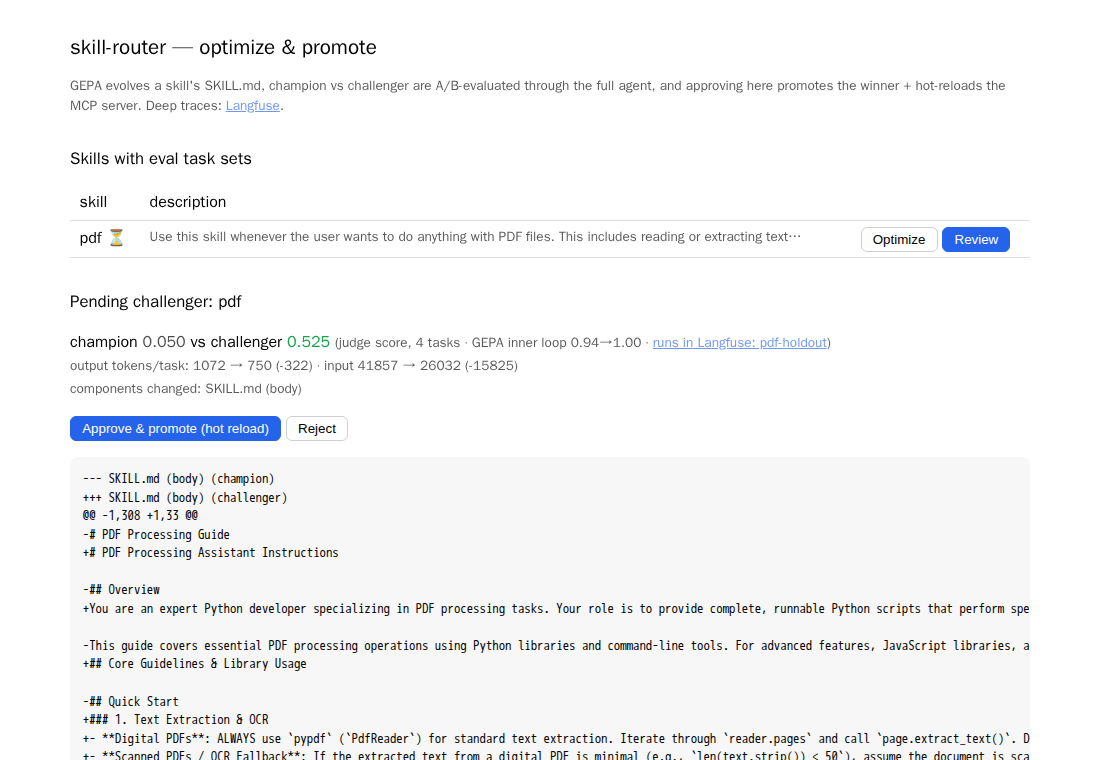
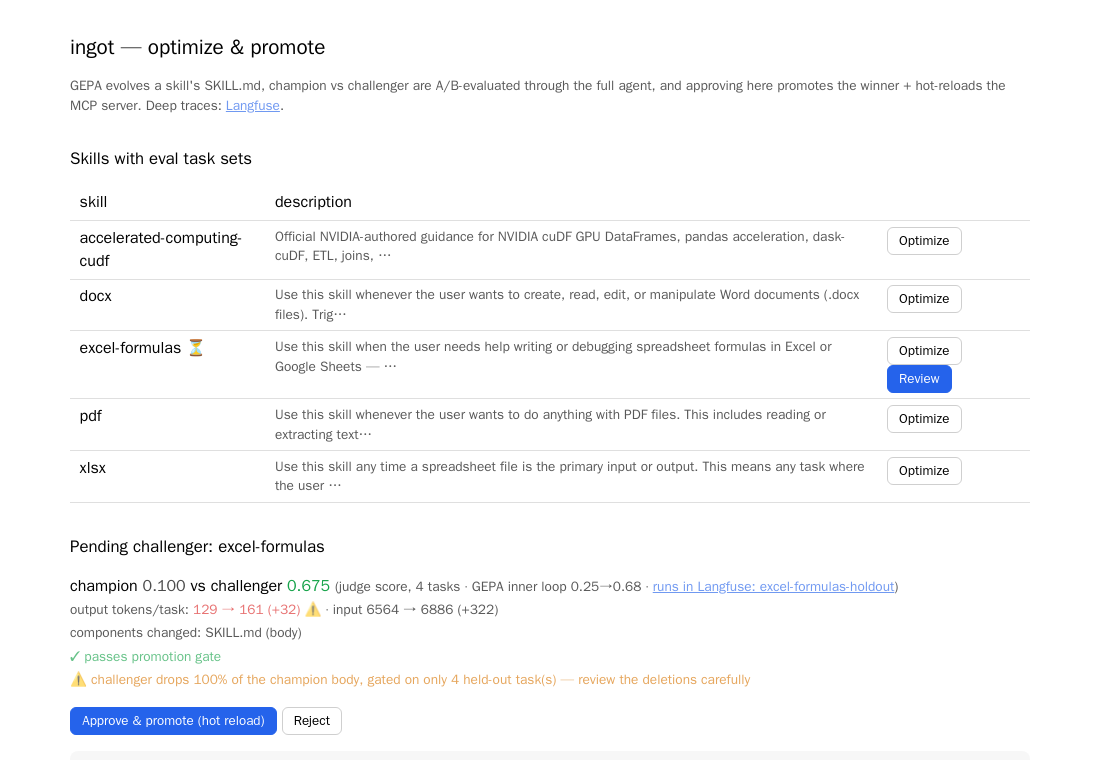
Tutorial: the excel-formulas arc — first-draft skill matured by both passes
Rewrite the walkthrough around a skill the reader writes themselves (a
four-line excel-formulas stub) and real, reproduced runs:

- traffic shows the stub under-triggering (a spreadsheet-lookup request
  routed to a rate-limiting skill) and under-delivering
- mining diagnoses it (with an honest note that reference-free judging
  of live traffic is noisy)
- body pass: auto-drafted eval set, GEPA 0.250 -> 0.675 inner loop, A/B
  0.100 -> 0.675 held-out (+0.575 margin, gate PASS), both warning
  systems firing correctly (output-token ⚠, 100%-retention ⚠)
- new screenshots: the promotable pending with warnings and diff
- description pass: routing top-1 0.250 -> 1.000 for ~$0.03, promoted
- honest caveat kept: trivially easy requests sometimes skip skill
  loading; the A/B (guaranteed serving) is the controlled measure
- excel-formulas.yaml: hand-curated routing cases (per spec decision)

diff --git a/README.md b/README.md
@@ -36,13 +36,11 @@ The only data that leaves your machine is the LLM traffic itself, under ZDR.
 
 ## Tutorial
 
-The tutorial runs the whole loop on a real skill, and the arc is simple: **find a request
-the existing skill doesn't help with, then optimize the skill until it does.** The failing champion
-is not a strawman: it is the **current `pdf` skill from
-[anthropics/skills](https://github.com/anthropics/skills), exactly as fetched from upstream
-today** — the agent routes to it, loads it, follows it, and still fails the request. You'll watch
-that happen, mine the failure from your own traces, let GEPA rewrite the skill, review the diff,
-promote it, and re-run the *same request* to see it succeed.
+The tutorial runs the whole improvement loop on a skill you write yourself, and the arc is the
+product's honest pitch: **write the quick first-draft skill you'd actually jot down, watch it
+under-deliver on real traffic, and let the system mature it** — content and routing, each measured
+by its own metric, each change gated and human-approved. Every command, number, and screenshot
+below comes from a real run; nothing is mocked.
 
 ### 1. Set up and start the stack
 
@@ -83,116 +81,117 @@ The agent asked the router (`suggest_skills`), loaded the top match (`get_skill`
 Open **http://localhost:3100** (login `[email redacted]` / `localdemo123` — local demo literals baked
 into the compose file, not secrets) to see the full trace: every tool call, LLM call, and token count.
 
-### 3. Find a request the stock skill doesn't help with
+### 3. Write a first-draft skill — and watch it under-deliver
 
-Now ask for something the skill's own docs say it covers — rotating pages. (No `scan_mix.pdf`
-exists, and none needs to: the request asks for a *script*, so the filename is just a placeholder
-in the code you get back.) The router matches, the agent loads the skill and follows it — and the
-loaded skill still doesn't get the user working code:
+A skill is a directory with a `SKILL.md`: YAML frontmatter whose `description` is the routing key,
+and a body the agent loads. Write the quick version you'd actually jot down:
 
 ```bash
-docker compose run --rm agent "Write Python code that straightens just the sideways (landscape) pages of scan_mix.pdf and saves a corrected copy."
+mkdir -p skills/excel-formulas
+cat > skills/excel-formulas/SKILL.md <<'EOF'
+---
+name: excel-formulas
+description: Use this skill when the user needs help writing or debugging spreadsheet formulas
+  in Excel or Google Sheets — lookups, sums, conditionals, text manipulation, or date math.
+---
+
+# Excel formulas
+
+1. Prefer built-in functions over manual arithmetic.
+2. Use VLOOKUP to find values in tables.
+3. Use IF for conditions; SUM and AVERAGE for aggregation.
+4. Wrap formulas that can error in IFERROR.
+EOF
+```
+
+`skills/` is bind-mounted and the server hot-reloads on change — the skill is live immediately.
+Now send it some realistic traffic:
+
+```bash
+docker compose run --rm agent "For each order in A2:D500, look up the customer tier in Sheet2 and return the matching discount rate — orders with no match should show 0 instead of an error."
 ```
 
 ```
 PROPOSED SKILLS (MCP suggest_skills):
-   0.642  pdf (related — compose/extend) — Use this skill whenever the user wants to do anything...
+    0.62  api-rate-limiting-helper (related — compose/extend) — Designs rate limiting strategies...
 
-LOADED SKILLS (MCP get_skill): ['pdf']
-TOKENS: 33721 in / 1241 out
-
-RESULT:
-Created `straighten_landscape.py`. Here's what it does:
-
-1. Opens `scan_mix.pdf` with `pypdf`
-2. For each page, checks if `width > height` (landscape)
-3. Rotates landscape pages **-90°** to make them portrait; leaves portrait pages alone
-4. Saves the result as `scan_mix_corrected.pdf`
-...
+LOADED SKILLS (MCP get_skill): (none)
+TOKENS: 46428 in / 3512 out
 ```
 
-Read that answer again: the user asked for code and got a *description* of code. The script exists
-only in the agent's throwaway container filesystem — the user receives nothing runnable. Other
-requests fare no better (a form-fill request came back with an empty answer after 75k input
-tokens). This is the tutorial's premise: **loading today's Anthropic `pdf` skill did not help with
-this request.** The failure is systematic and traces back to the skill itself — the stock SKILL.md
-is a 7,500-character reference guide to browse, not an instruction contract, so the serving model
-reads it and paraphrases instead of delivering. The rest of the tutorial optimizes the skill until
-this exact request works.
+Read that routing line again: a spreadsheet-lookup request matched **a rate-limiting skill**, and
+`excel-formulas` never even surfaced — the first-draft description under-triggers (in our traffic,
+3 of 4 realistic requests missed it). The answer itself came from the model's own knowledge after
+burning 46k input tokens looking for spreadsheet files, resting on invented column assumptions.
+The skill helped with none of it. Both failures are now sitting in your traces.
 
 ### 4. Mine what's failing (from real traces)
 
-After a few runs like the ones above, Langfuse holds your real traffic. `optimize-mine` re-judges
-each logged outcome with a multi-dimensional LLM judge and aggregates which failure dimensions
-dominate — the [SkillForge paper's](https://arxiv.org/abs/2604.08618) "Failure Analyzer" applied to
-your own traces:
+`optimize-mine` re-judges your logged traffic with a multi-dimensional LLM judge and aggregates
+which failure dimensions dominate — the [SkillForge paper's](https://arxiv.org/abs/2604.08618)
+"Failure Analyzer" applied to your own traces:
 
 ```bash
-docker compose run --rm optimize-mine pdf
+docker compose run --rm optimize-mine excel-formulas
 ```
 
 ```
-[mine] analyzed 6 real traces · mean judge score 0.42 · 3 bad cases (score < 0.5)
+[mine] analyzed 6 real traces · mean judge score 0.73 · 1 bad cases (score < 0.5)
 [mine] failure dimensions (paper's Failure Analyzer), most common first:
-    completeness             4/6  ███████
-        · 'Write a Python script that stamps a diagonal DRAFT watermark across ev' → no code provided
-        · 'How do I extract all the text from statement.pdf in Python? It might b' → missing PIL import for OCR
-    instruction_following    3/6  █████
-        · 'Write a Python script that stamps a diagonal DRAFT watermark across ev' → no runnable python code block
-        · 'Write Python code that straightens just the sideways (landscape) pages' → no runnable python code block
-    correctness              2/6  ███
-        · 'Write a Python script that stamps a diagonal DRAFT watermark across ev' → no code provided
-    efficiency               0/6
-
+    completeness             2/6  ███
+        · 'For each order in A2:D500, look up the customer tier in Sheet2 and ret' → Python script not provided
+        · 'For each order row in A2:D500, look up the customer tier from the tabl' → assumes customer ID column
+    instruction_following    2/6  ███
+        · 'For each order in A2:D500, look up the customer tier in Sheet2 and ret' → Python script not provided
+    ...
 [mine] 6 weakest tasks mined as eval candidates → optimize on these next.
 ```
 
-The dominant failure — *no runnable code provided* — is exactly what you watched in step 3. That
-categorized signal also feeds GEPA's reflection (*diagnose → smallest targeted fix*, not a blind
-rewrite), so the optimization below is aimed, not scattershot.
+(Reference-free judging of live traffic is noisier than rubric-based judging — treat mined
+dimensions as a diagnosis to investigate, not a verdict. The optimizer's own gate runs on rubrics.)
 
-### 5. Optimize the skill so it does help: GEPA + held-out A/B
+### 5. Optimize the body: GEPA + held-out A/B
 
 ```bash
-docker compose run --rm optimize pdf --budget 30
+docker compose run --rm optimize excel-formulas
 ```
 
-One command does two things (~$0.50 of OpenRouter credit at budget 30, ~15–20 minutes; the default
-budget is 60 metric calls — 30 is plenty for a task set this small):
+The skill has no eval set yet, so the teacher model **auto-drafts one** (train/holdout, persisted
+to `optimize/tasks/excel-formulas.yaml`), then GEPA evolves the body on the train tasks and the
+champion and challenger are A/B-ed through the full agent on the held-out tasks (~$1–1.5 of
+OpenRouter credit; the serving-side A/B injects each variant body, so the comparison is exactly
+body vs body):
 
-1. **GEPA evolves the SKILL.md `body`** — the instructions the agent actually loads — on the
-   *train* tasks in `optimize/tasks/pdf.yaml`, using judge critiques to author better versions.
-   The routing `description` is deliberately **not** optimized here: it's an embedding-matched
-   routing trigger, not instructions, and a quality judge can't measure routing (set
-   `OPTIMIZE_COMPONENTS` to widen, including bundled `file:` components — those are diffed for
-   review but never executed by the A/B, so keep scripts out unless you have execution-grounded
-   evals). Everything else is preserved on disk as-is. A length penalty keeps GEPA from winning by
-   bloat. (A skill without a task set gets one **auto-drafted** — train/holdout — by the teacher
-   model first.)
-2. **Champion vs challenger through the full agent** — real router, real tool calls — on the
-   **held-out** tasks GEPA never saw, scored on quality and token cost. GEPA optimizes *against*
-   the train judge score, so that score is biased by construction; promotion is gated on tasks the
-   optimizer never touched.
+```
+[draft] no eval set for 'excel-formulas' — teacher (z-ai/glm-5.2) drafting 8 train/holdout tasks…
+[gepa] optimizing 'excel-formulas' (components: ['body']; frozen: ['description']) on 4 train tasks…
+[gepa] inner-loop score: seed 0.250 -> best 0.675
+[gepa] components changed: ['body']
+[ab] champion:   mean judge score 0.100  [0.4, 0.0, 0.0, 0.0]
+[ab] challenger: mean judge score 0.675  [0.5, 0.7, 0.5, 1.0]
+[ab] champion 0.100 vs challenger 0.675 -> CHALLENGER WINS
+[ab] output tokens/task: 128 -> 160 (+32)  ⚠ output-token regression
+[ab] ⚠ challenger drops 100% of the champion body, gated on only 4 held-out task(s) — review the deletions carefully
+[ab] pending approval written to runs/pending/excel-formulas.json — review + promote at http://localhost:8080
+```
 
-<!-- FILL:OPTIMIZE-RUN -->
-
-Output tokens are the cost that matters (they're generated on every future task); a challenger that
-wins on quality but regresses output tokens >10% gets a ⚠ flag. A bigger SKILL.md (input tokens) is
-cheap context by comparison.
+The four-line stub scored **0.100** on held-out tasks; the challenger scores **0.675** — a +0.575
+margin, far above the gate's +0.15 bar. Note both ⚠ flags are doing their jobs: output tokens grew
+(richer answers than a stub's — worth a look, not a block), and the retention warning fires because
+the challenger replaced the entire body — for a four-line stub that's exactly right, and the human
+reviewing the diff decides.
 
 **Optimization is greedy — one component per pass, each scored by its own role's metric:**
 
 | pass | command | inner-loop objective | cost |
 |------|---------|---------------------|------|
-| body (default) | `optimize pdf` | LLM judge on train tasks; full-agent A/B gate | ~$1 |
-| description | `optimize pdf --description` | the **routing suite**, scored by the real embedding router — no LLM rollouts (reflection only) | ~$0.05, minutes |
-| scripts | `optimize pdf --scripts` | refused for now: bundled scripts need execution-grounded evals before a rewrite can be measured | — |
+| body (default) | `optimize excel-formulas` | LLM judge on train tasks; full-agent A/B gate | ~$1 |
+| description | `optimize excel-formulas --description` | the **routing suite**, scored by the real embedding router — no LLM rollouts (reflection only) | ~$0.05, seconds |
+| scripts | `optimize excel-formulas --scripts` | refused for now: bundled scripts need execution-grounded evals before a rewrite can be measured | — |
 
-The description pass gates on **no regression on any routing metric, at least one strict
-improvement, and no collision** with another skill's description — then the same human approval UI.
 This split exists because a quality judge can't measure routing and a router can't measure quality;
-one shared metric let early runs "improve" the description in ways that either broke routing (the
-gate caught it) or never reached the serving agent.
+letting one metric grade both components teaches the optimizer to hide behavioral rules in the
+routing description (the routing-regression gate catches it, but better to make it impossible).
 
 ### 6. Review and promote in the approval UI
 
@@ -200,26 +199,70 @@ Open **http://localhost:8080**:
 
 ![approval UI — skills list](docs/ui-home.png)
 
-Click **Review** to see the judge scores, the token shift, and the SKILL.md diff:
+Click **Review** to see the judge scores, the token shift, both warnings, and the full body diff:
 
 ![approval UI — pending challenger review](docs/ui-review.png)
 
 **Approve & promote** verifies the evidence still matches the on-disk champion and the exact
-challenger, snapshots the prior revision, and swaps the challenger into `skills/pdf/`. The MCP
-server notices the revision change on its next request — the new skill is served with **no
+challenger, snapshots the prior revision, and swaps the challenger into `skills/excel-formulas/`.
+The MCP server notices the revision change on its next request — the new body is served with **no
 restart**. **Reject** discards it.
 
-### 7. The same request now works
+### 7. Fix the routing with the description pass
 
-The request from step 3 — the one the stock skill didn't help with — again, against the promoted
-skill:
+The body is better — but the router still under-triggers (step 3's lookup request never matched).
+That's a *routing* problem, so it gets the routing-objective pass: add `routing:` cases to
+`optimize/tasks/excel-formulas.yaml` (realistic positive phrasings plus `expected: null`
+negatives), then:
 
-<!-- FILL:AFTER-RUN -->
+```bash
+docker compose run --rm optimize excel-formulas --description
+```
 
-That's the loop: a request the existing skill couldn't serve → mined failures → targeted rewrite →
-held-out A/B → human review → hot-reloaded promotion → the same request served properly.
+```
+[routing] optimizing 'excel-formulas' description against 6 routing cases (budget 40 metric calls;
+          inner loop is embedding-only — no LLM rollouts)…
+[routing] inner-loop score: seed 0.417 -> best 0.833
+[routing] champion:   top1 0.250 · recall@3 0.500 · no-route precision 0.500
+[routing] challenger: top1 1.000 · recall@3 1.000 · no-route precision 0.500
+[routing] pending description written to runs/pending/excel-formulas.json — review + promote at http://localhost:8080
+[usage] tokens spent by this routing pass (reflection only):
+  reflection      4 calls      2,372 in     8,579 out
+```
 
-### 8. (Optional) Promote via a live canary instead
+Top-1 routing goes **0.250 → 1.000** in seconds, for four reflection calls (~$0.03) — every
+candidate description is scored by the real embedding router against the real skill corpus, so
+there's nothing for an LLM judge to be fooled about. The gate requires no regression on any routing
+metric, at least one strict improvement, and no collision with another skill's description; then
+the same review UI shows the metric deltas and the description diff. Approve it.
+
+### 8. The same request now finds the skill
+
+```bash
+docker compose run --rm agent "Write a formula that extracts the domain name from an email address in cell C2."
+```
+
+```
+PROPOSED SKILLS (MCP suggest_skills):
+   0.697  excel-formulas — Use this skill when the user asks to write, generate, or create an Excel...
+
+RESULT:
+=RIGHT(C2, LEN(C2) - FIND("@", C2))
+
+This finds the `@` symbol and returns everything after it.
+```
+
+Requests that missed the skill or landed in the related band now route to it directly (top-1 went
+1.000 on the routing suite), and the matured body wins its held-out A/B 0.675 to 0.100. One honest
+caveat from our runs: on trivially easy requests the serving model sometimes answers without
+bothering to load the matched skill at all — the controlled body-vs-body comparison is the A/B in
+step 5, which guarantees serving; live loading behavior is the serving model's own.
+
+That's the loop: a first-draft skill → real traffic → mined diagnosis → a body pass gated on
+held-out quality → a description pass gated on routing metrics → human approval at every promotion
+→ hot reload.
+
+### 9. (Optional) Promote via a live canary instead
 
 The offline A/B gates on a fixed held-out set. The production-honest alternative is a **canary**:
 serve the challenger to a fraction of *live* traffic, judge each real outcome, and promote only
@@ -248,7 +291,7 @@ skill revision (`canary=challenger`, `revision=<hash>`), and the judged outcome 
 scores (`canary_judge`, `canary_success`) on that trace — so the per-arm evidence is auditable in
 the Langfuse UI and the posterior can be recomputed from stored scores at any time.
 
-### 9. (Optional) Put it on autopilot
+### 10. (Optional) Put it on autopilot
 
 One command mines every skill's real traffic for health and optimizes only the ones actually
 failing, leaving every survivor in the approval UI (nothing auto-promotes):
@@ -268,33 +311,14 @@ docker compose run --rm optimize-loop            # all skills with eval sets; ad
 Point it at your logged traffic on a schedule and skills that drift on your real workload get
 re-optimized and queued for a human — continuously.
 
-### 10. Grow the library
+### 11. Grow the library
 
-A skill is just a directory `skills/<name>/SKILL.md`: YAML frontmatter whose `description` is the
-routing key, and a body the agent loads. Three ways the library grows:
+Three ways the library grows:
 
-**Write one yourself** — create the file and hot-reload (no rebuild; `skills/` is bind-mounted):
-
-```bash
-mkdir -p skills/sql-explain
-cat > skills/sql-explain/SKILL.md <<'EOF'
----
-name: sql-explain
-description: Use this skill whenever the user wants to understand, optimize, or debug a SQL query —
-  reading EXPLAIN/EXPLAIN ANALYZE output, spotting missing indexes, or rewriting a slow query.
----
-
-# SQL query analysis
-1. Run `EXPLAIN (ANALYZE, BUFFERS)` and read the plan bottom-up.
-2. Flag sequential scans on large tables → candidate indexes.
-... (your reusable method here)
-EOF
-
-docker compose restart mcp        # or call the reload_skills MCP tool for a live hot reload
-```
-
-Only two frontmatter fields matter: `name` (a slug) and `description` (the routing trigger — write
-it "pushy", starting with "Use this skill when…", since under-triggering is the common failure).
+**Write one yourself** — exactly like step 3: a directory, a `SKILL.md`, and it's live on the next
+request. Only two frontmatter fields matter: `name` (a slug) and `description` (the routing
+trigger — write it "pushy", starting with "Use this skill when…", since under-triggering is the
+common failure; and as step 7 showed, the description pass can fix it for you afterwards).
 
 **Let the agent write one** — when `suggest_skills` returns an empty list (nothing even related),
 the agent solves the task itself and persists what it learned via the `create_skill` MCP tool: